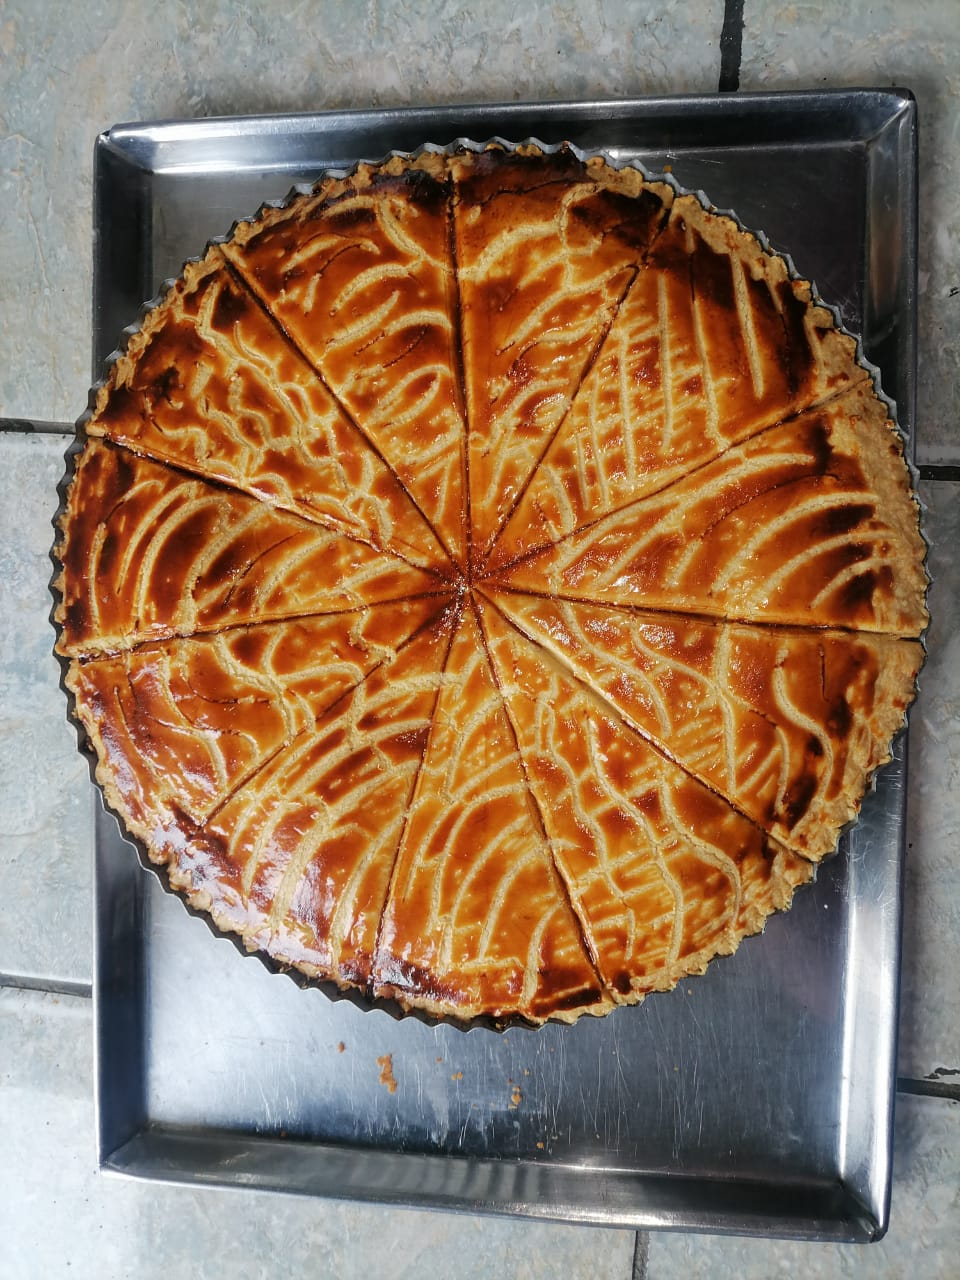
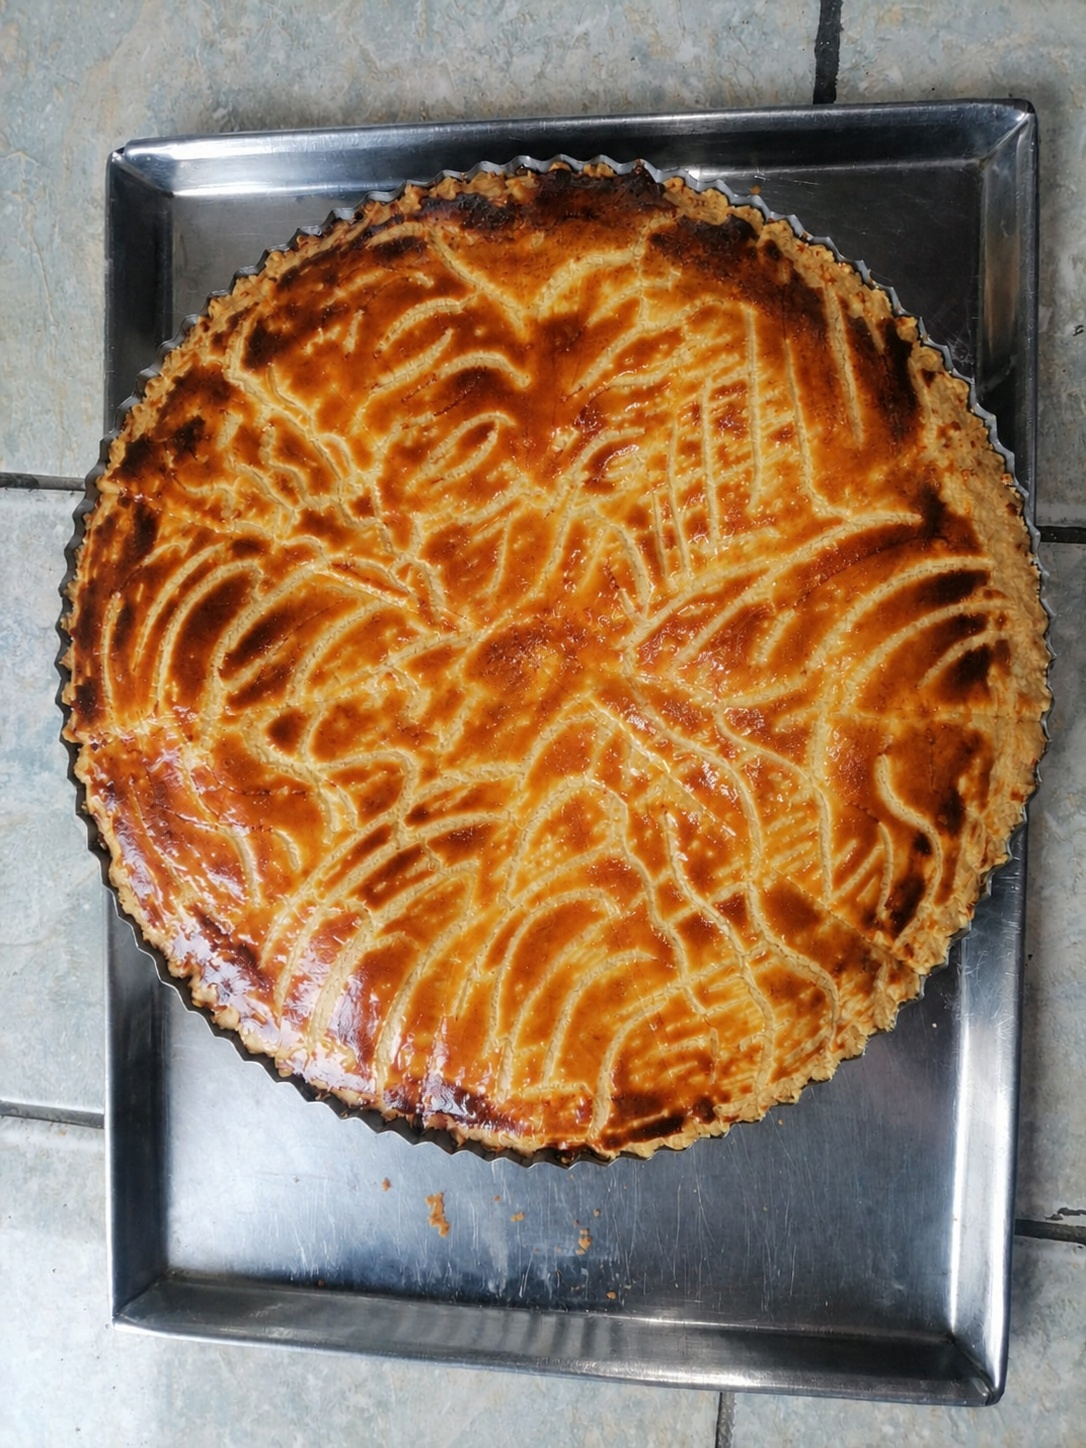
Reemplazar definitivamente foto del pay

diff --git a/index.html b/index.html
@@ -33,7 +33,7 @@ const products=[
 {id:'emp-clasica',cat:'empanadas',tag:'Empanadas',name:'Empanada de boda',desc:'Una opción tradicional, doradita y fácil de ofrecer.',img:'empanadas.jpeg',prices:[['Media docena','S/ 7.20'],['Docena','S/ 14.40']]},
 {id:'emp-ajonjoli',cat:'empanadas',tag:'Empanadas',name:'Empanada de ajonjolí',desc:'Una variedad especial con un toque de ajonjolí.',img:'empanadas.jpeg',prices:[['Media docena','S/ 7.20'],['Docena','S/ 14.40']]},
 {id:'emp-grajeas',cat:'empanadas',tag:'Empanadas',name:'Empanada con grajeas',desc:'Colorida y atractiva para grandes y pequeños.',img:'grajeas.jpeg',prices:[['Media docena','S/ 7.20'],['Docena','S/ 14.40']]},
-{id:'pay',cat:'tortas',tag:'Postres',name:'Pay de manzana',desc:'Un clásico de sabor casero, con una presentación artesanal.',img:'pay-manzana-nueva.png',prices:[]},
+{id:'pay',cat:'tortas',tag:'Postres',name:'Pay de manzana',desc:'Un clásico de sabor casero, con una presentación artesanal.',img:'pay-manzana.jpeg',prices:[]},
 {id:'turron-personal',cat:'temporada',tag:'Turrones',name:'Turrón personal',desc:'Una presentación individual, ideal para venta rápida.',img:'turron.jpeg',prices:[['Presentación personal','S/ 4.00']]},
 {id:'turron-familiar',cat:'temporada',tag:'Turrones',name:'Turrón familiar',desc:'Presentación para compartir, de medio kilo.',img:'turron-familiar.jpeg',prices:[['Medio kilo (½ kg)','S/ 12.00']]}
 ];
